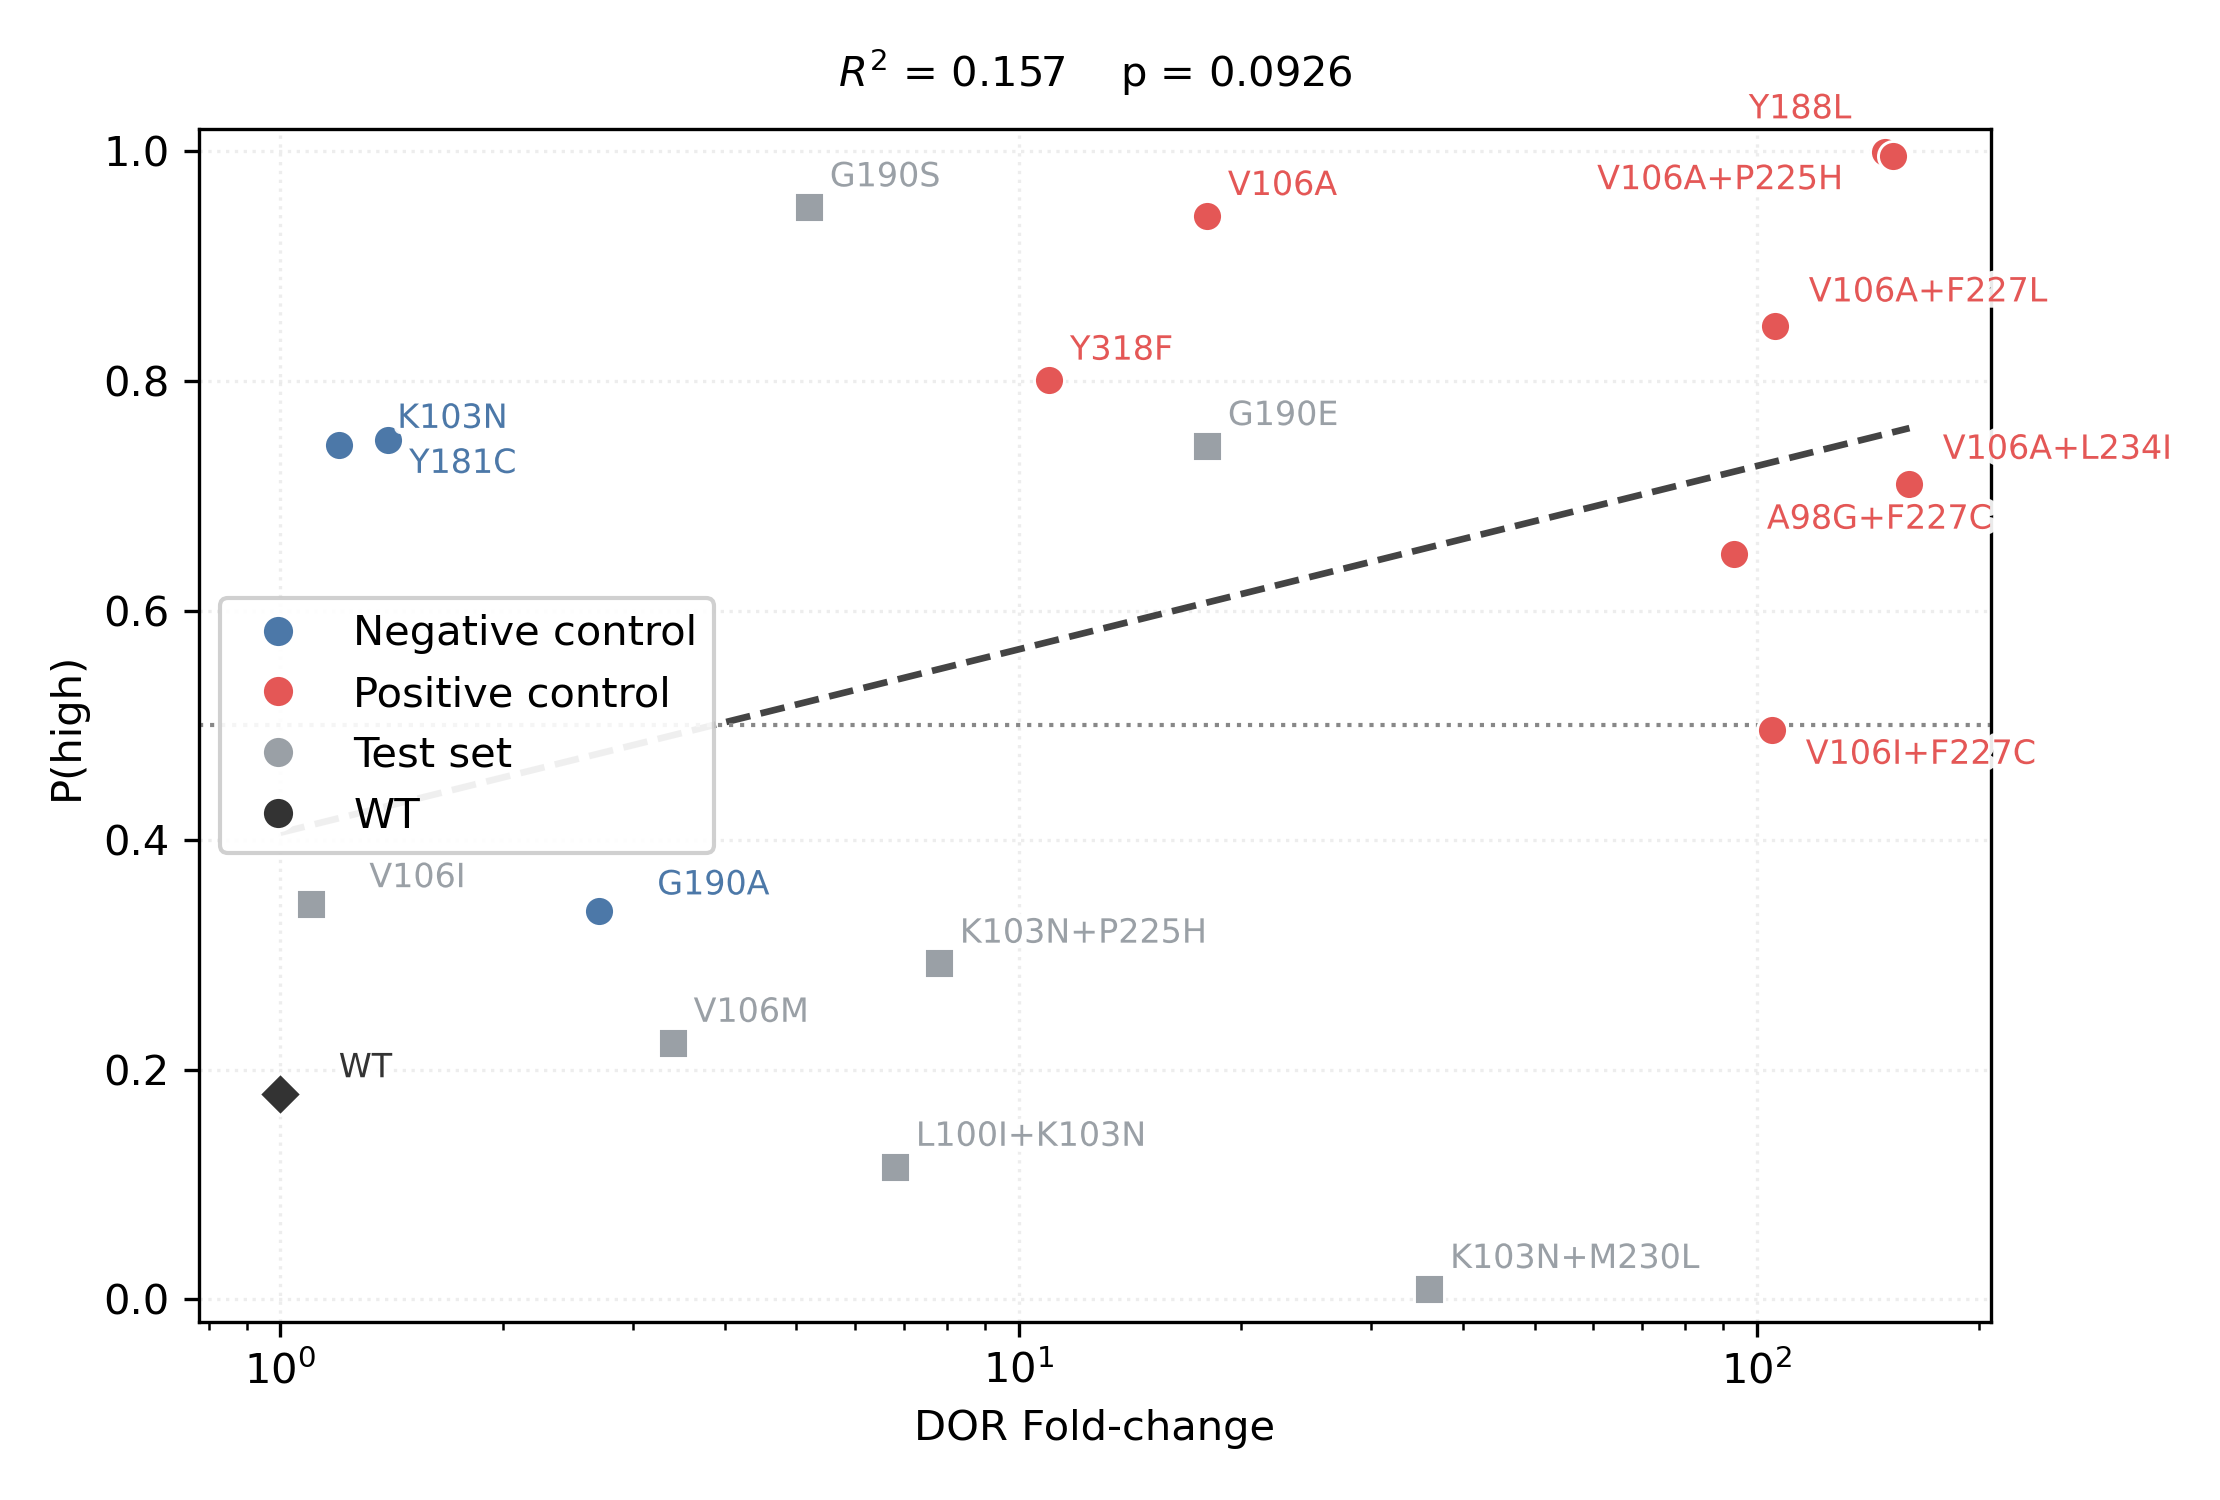
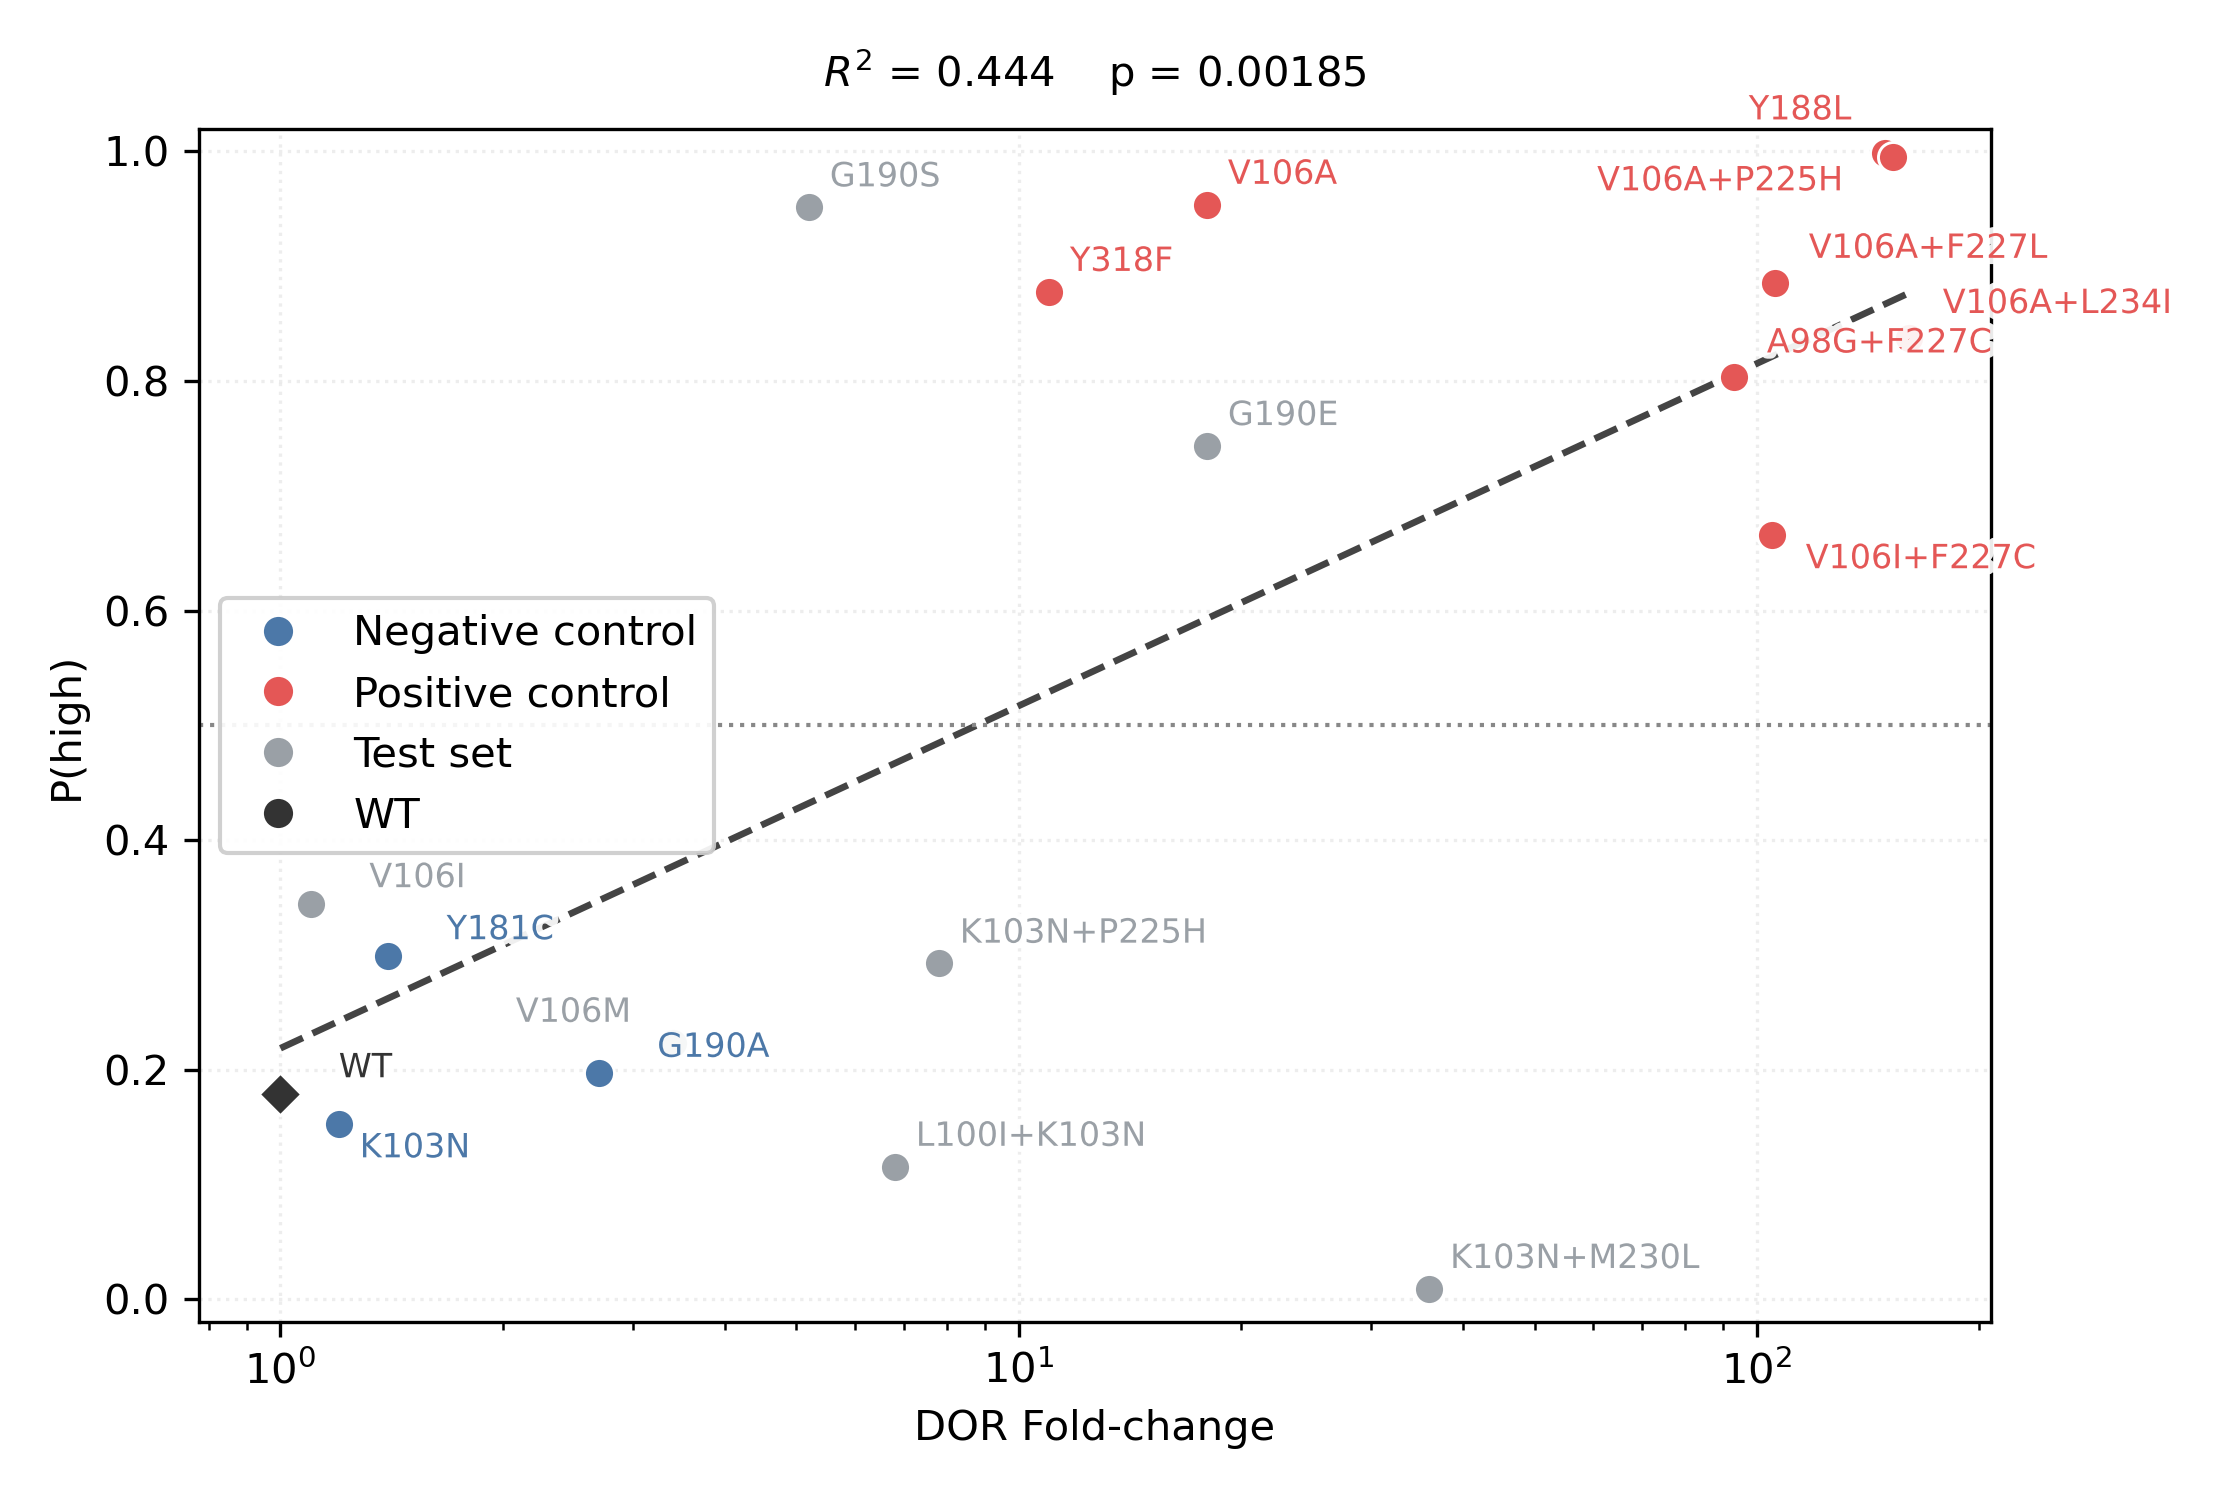
Use full-fit probabilities for retrained variant plot

diff --git a/src/analysis/cli/promote_custom_mechanism_selected_model.py b/src/analysis/cli/promote_custom_mechanism_selected_model.py
@@ -61,6 +61,7 @@ def _parse_args() -> argparse.Namespace:
     parser.add_argument("--c-value", type=float, default=3.0)
     parser.add_argument("--decision-threshold", type=float, default=0.5)
     parser.add_argument("--low-max-fold", type=float, default=10.0)
+    parser.add_argument("--all-probability-mode", choices=["mixed", "full_fit"], default="mixed")
     return parser.parse_args()
 
 
@@ -153,7 +154,7 @@ def _annotate_points(ax: plt.Axes, df: pd.DataFrame, overrides: dict[str, tuple[
     for _, row in df.sort_values(["target_fold_reduction", "prob_high"], kind="stable").iterrows():
         label = str(row["mutation"])
         xy = (float(row["target_fold_reduction"]), float(row["prob_high"]))
-        color = _category_color(label)
+        color = _category_color(row.get("display_category", label))
         if label in overrides:
             candidates = [overrides[label]]
         else:
@@ -197,7 +198,7 @@ def _plot_cv_vs_fold(df: pd.DataFrame, out: Path) -> None:
         m = str(row["mutation"])
         x = float(row["target_fold_reduction"])
         y = float(row["prob_high"])
-        c = _category_color(m)
+        c = _category_color(row.get("display_category", m))
         ax.scatter(x, y, s=48, color=c, edgecolor="white", linewidth=0.7, zorder=3)
     x = df["target_fold_reduction"].astype(float).to_numpy()
     y = df["prob_high"].astype(float).to_numpy()
@@ -229,7 +230,7 @@ def _plot_all_probability_vs_fold(df: pd.DataFrame, out: Path) -> None:
         m = str(row["mutation"])
         x = float(row["target_fold_reduction"])
         y = float(row["prob_high"])
-        c = _category_color(m)
+        c = _category_color(row.get("display_category", m))
         marker = marker_map.get(str(row["prediction_source"]), "o")
         ax.scatter(x, y, s=52, marker=marker, color=c, edgecolor="white", linewidth=0.7, zorder=3)
     x = df["target_fold_reduction"].astype(float).to_numpy()
@@ -277,7 +278,7 @@ def _plot_ranked_probabilities(df: pd.DataFrame, out: Path) -> None:
     plot_df = df.sort_values(["prob_high", "target_fold_reduction"], ascending=[False, True], kind="stable").reset_index(drop=True)
     fig, ax = plt.subplots(figsize=(8.0, 4.8))
     xs = np.arange(len(plot_df))
-    colors = [_category_color(m) for m in plot_df["mutation"]]
+    colors = [_category_color(c) for c in plot_df["display_category"]]
     ax.bar(xs, plot_df["prob_high"], color=colors, edgecolor="white", linewidth=0.7)
     ax.axhline(0.5, color="#888888", linestyle=":", linewidth=1.0)
     ax.set_ylabel("P(high)")
@@ -321,7 +322,7 @@ def _plot_holdout(df: pd.DataFrame, out: Path) -> None:
     plot_df = df.sort_values(["prob_high", "target_fold_reduction"], ascending=[False, True], kind="stable").reset_index(drop=True)
     fig, ax = plt.subplots(figsize=(7.2, 4.8))
     xs = np.arange(len(plot_df))
-    colors = [_category_color(m) for m in plot_df["mutation"]]
+    colors = [_category_color(c) for c in plot_df["display_category"]]
     ax.bar(xs, plot_df["prob_high"], color=colors, edgecolor="white", linewidth=0.7)
     ax.axhline(0.5, color="#888888", linestyle=":", linewidth=1.0)
     ax.set_ylabel("Full-fit P(high)")
@@ -443,37 +444,46 @@ def main() -> int:
     hold_out["prediction_source"] = np.where(hold_out["control_category"] == "wt_reference", "wt_reference", "holdout")
     hold_out.to_csv(out_tables / "holdout_predictions.csv", index=False)
 
-    all_prob = pd.concat(
-        [
-            cv_df[
-                [
-                    "mutation",
-                    "control_category",
-                    "target_fold_reduction",
-                    "observed_class",
-                    "prob_high",
-                    "prob_low",
-                    "logit_prob_high",
-                    "predicted_class",
-                    "prediction_source",
-                ]
-            ].rename(columns={"observed_class": "target_binary_class"}),
-            hold_out[
-                [
-                    "mutation",
-                    "control_category",
-                    "target_fold_reduction",
-                    "target_binary_class",
-                    "prob_high",
-                    "prob_low",
-                    "logit_prob_high",
-                    "predicted_class",
-                    "prediction_source",
-                ]
+    if str(args.all_probability_mode) == "full_fit":
+        all_prob = df[["mutation", "control_category", "target_fold_reduction", "target_binary_class"]].copy()
+        all_prob["prob_high"] = full.predict_proba(df[SELECTED_FEATURES])[:, pos_idx]
+        all_prob["prob_low"] = 1.0 - all_prob["prob_high"]
+        all_prob["logit_prob_high"] = _safe_logit(all_prob["prob_high"].to_numpy(dtype=float))
+        all_prob["predicted_class"] = np.where(all_prob["prob_high"] >= float(args.decision_threshold), "high", "low")
+        all_prob["prediction_source"] = np.where(all_prob["control_category"] == "wt_reference", "wt_reference", "full_fit")
+    else:
+        all_prob = pd.concat(
+            [
+                cv_df[
+                    [
+                        "mutation",
+                        "control_category",
+                        "target_fold_reduction",
+                        "observed_class",
+                        "prob_high",
+                        "prob_low",
+                        "logit_prob_high",
+                        "predicted_class",
+                        "prediction_source",
+                    ]
+                ].rename(columns={"observed_class": "target_binary_class"}),
+                hold_out[
+                    [
+                        "mutation",
+                        "control_category",
+                        "target_fold_reduction",
+                        "target_binary_class",
+                        "prob_high",
+                        "prob_low",
+                        "logit_prob_high",
+                        "predicted_class",
+                        "prediction_source",
+                    ]
+                ],
             ],
-        ],
-        ignore_index=True,
-    ).sort_values("target_fold_reduction", kind="stable").reset_index(drop=True)
+            ignore_index=True,
+        )
+    all_prob = all_prob.sort_values("target_fold_reduction", kind="stable").reset_index(drop=True)
     all_prob.to_csv(out_tables / "all_mutation_probabilities.csv", index=False)
 
     cv_plot_df = _display_control_cv_df(cv_df)
@@ -502,6 +512,7 @@ def main() -> int:
                 "c_value": float(args.c_value),
                 "decision_threshold": float(args.decision_threshold),
                 "low_max_fold": float(args.low_max_fold),
+                "all_probability_mode": str(args.all_probability_mode),
                 "selected_features": SELECTED_FEATURES,
             },
             indent=2,
